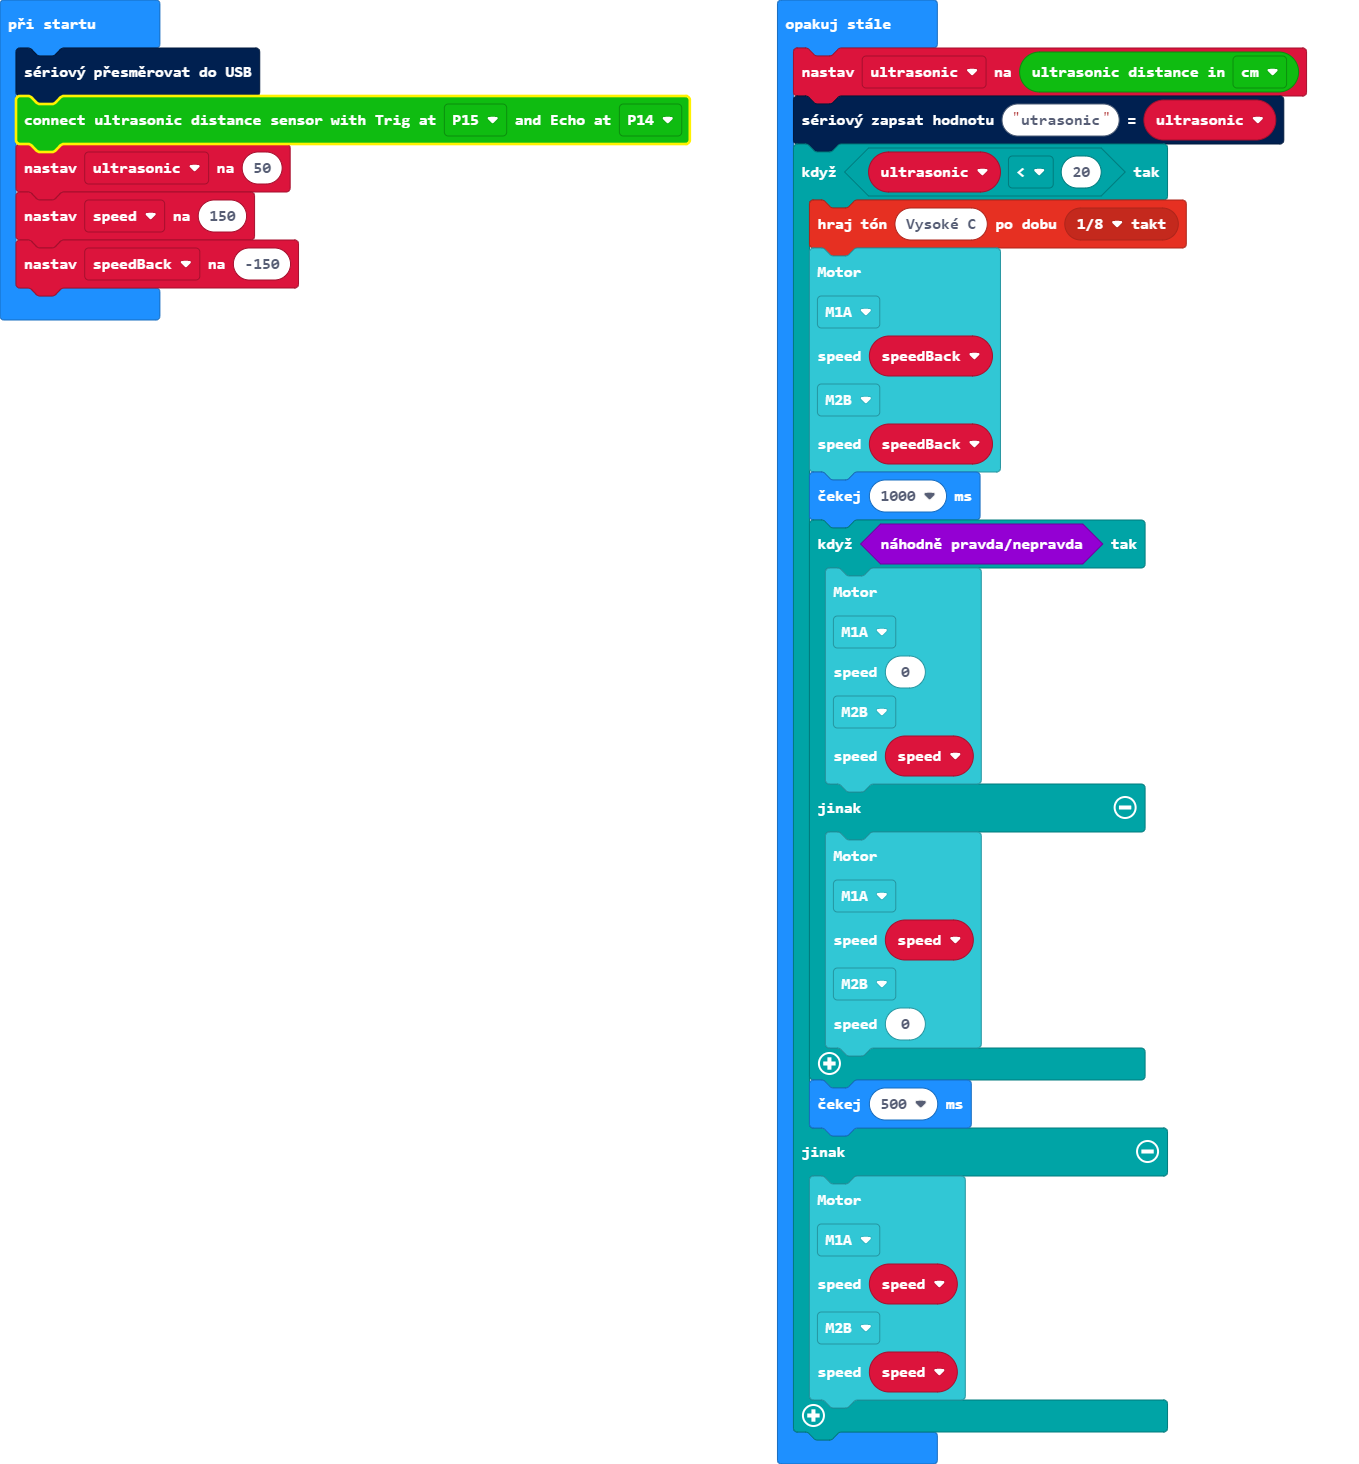
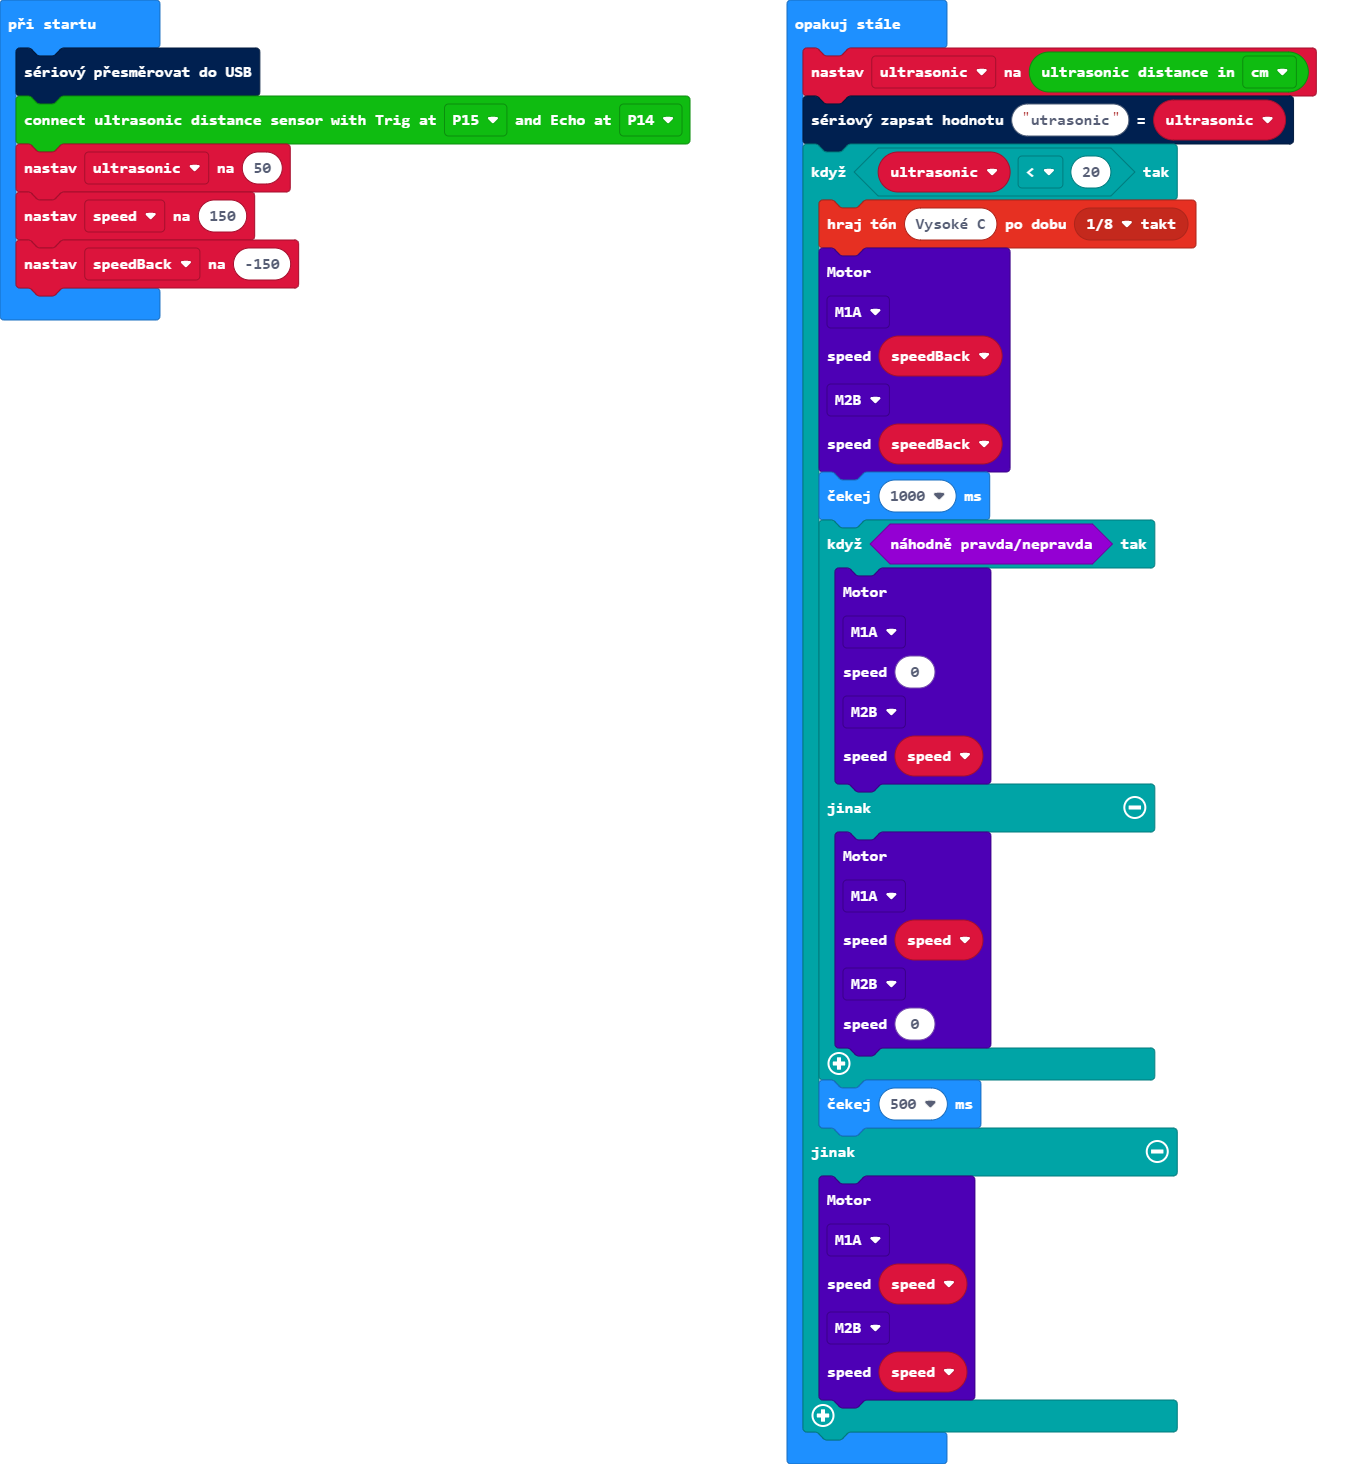
Update pxt.json, main.blocks, main.ts

diff --git a/main.ts b/main.ts
@@ -8,34 +8,34 @@ basic.forever(function () {
     serial.writeValue("utrasonic", ultrasonic)
     if (ultrasonic < 20) {
         music.playTone(523, music.beat(BeatFraction.Eighth))
-        robotbit.MotorRunDual(
-        robotbit.Motors.M1A,
+        robotAtom.MotorRunDual(
+        robotAtom.Motors.M1A,
         speedBack,
-        robotbit.Motors.M2B,
+        robotAtom.Motors.M2B,
         speedBack
         )
         basic.pause(1000)
         if (Math.randomBoolean()) {
-            robotbit.MotorRunDual(
-            robotbit.Motors.M1A,
+            robotAtom.MotorRunDual(
+            robotAtom.Motors.M1A,
             0,
-            robotbit.Motors.M2B,
+            robotAtom.Motors.M2B,
             speed
             )
         } else {
-            robotbit.MotorRunDual(
-            robotbit.Motors.M1A,
+            robotAtom.MotorRunDual(
+            robotAtom.Motors.M1A,
             speed,
-            robotbit.Motors.M2B,
+            robotAtom.Motors.M2B,
             0
             )
         }
         basic.pause(500)
     } else {
-        robotbit.MotorRunDual(
-        robotbit.Motors.M1A,
+        robotAtom.MotorRunDual(
+        robotAtom.Motors.M1A,
         speed,
-        robotbit.Motors.M2B,
+        robotAtom.Motors.M2B,
         speed
         )
     }
